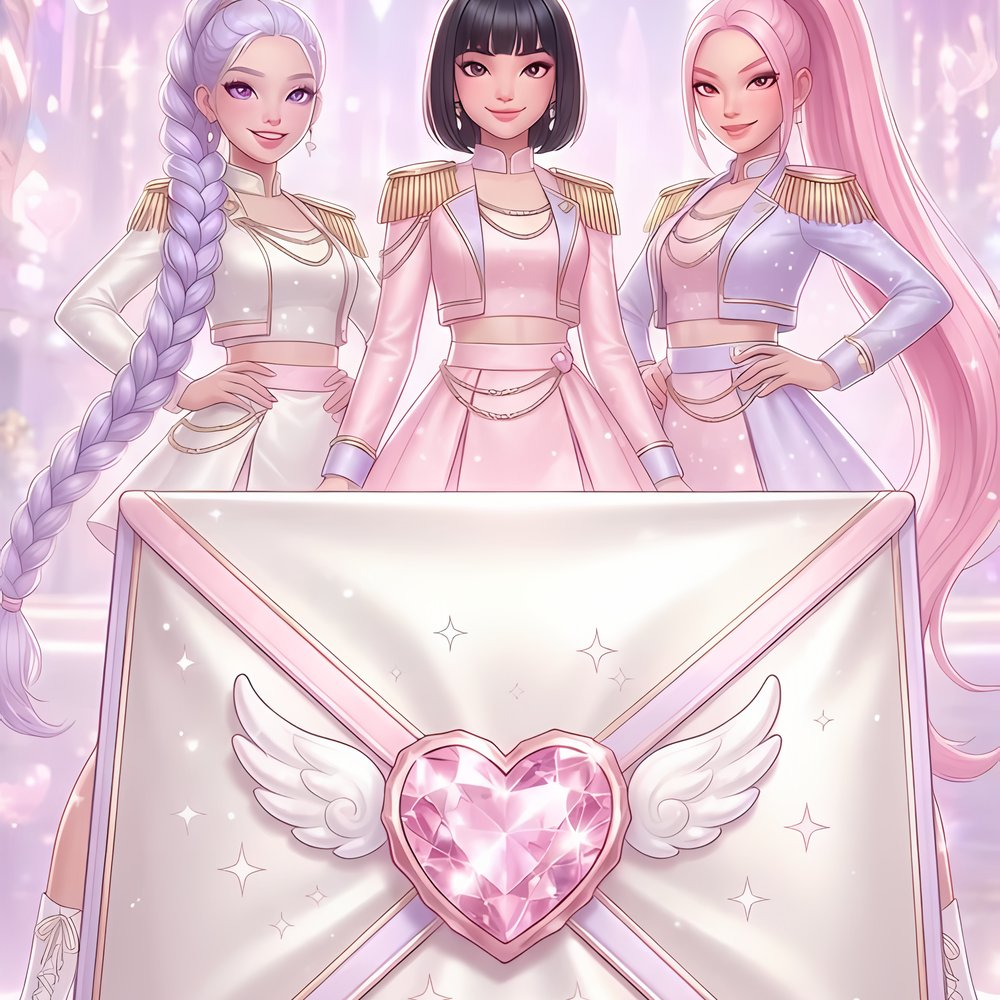
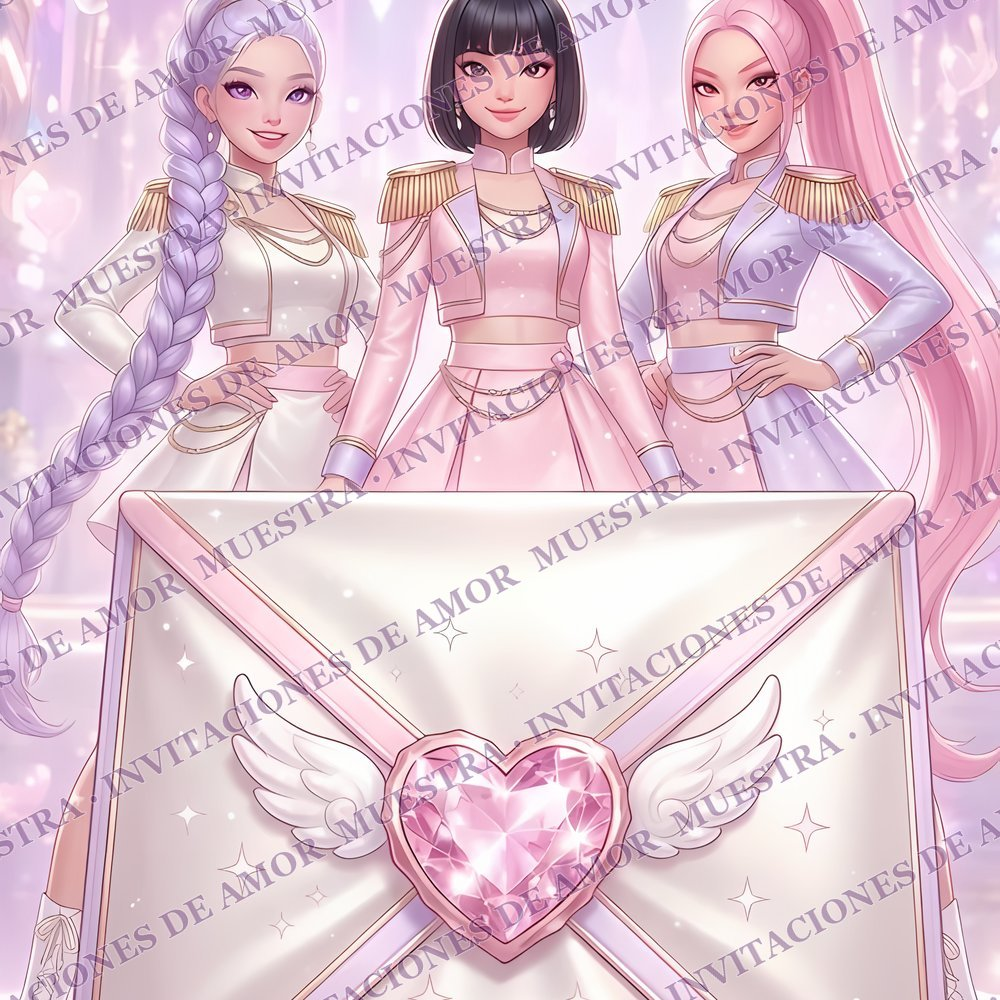
Julieth v1: marca de agua desde el sobre y vista previa; todos los botones (mapas y confirmar) bloqueados hasta el pago

diff --git a/borradores/bautizo-cumple-julieth-v1-b680a8/index.html b/borradores/bautizo-cumple-julieth-v1-b680a8/index.html
@@ -12,7 +12,7 @@
 <meta property="og:title" content="Mi Bautizo y mis 3 añitos · Julieth">
 <meta property="og:description" content="Estás invitado a mi bautizo y a mi cumple de 3 añitos 💖 Toca el sobre para abrir tu invitación ✨">
 <meta property="og:url" content="https://eleganciadeamor.com/borradores/bautizo-cumple-julieth-v1-b680a8/">
-<meta property="og:image" content="https://eleganciadeamor.com/borradores/bautizo-cumple-julieth-v1-b680a8/recursos/vista-previa.jpg?v=1">
+<meta property="og:image" content="https://eleganciadeamor.com/borradores/bautizo-cumple-julieth-v1-b680a8/recursos/vista-previa.jpg?v=2">
 <meta property="og:image:type" content="image/jpeg">
 <meta property="og:image:width" content="1000">
 <meta property="og:image:height" content="1000">
@@ -97,7 +97,8 @@ const CONFIG = {
 
   credito: { texto: "Página hecha con amor por", marca: "Invitaciones de Amor", boton: "Ver nuestros trabajos", enlace: "https://eleganciadeamor.com/#nuestros-trabajos" },
 
-  muestra: { activa: true, texto: "MUESTRA · INVITACIONES DE AMOR", aviso: "Se activa en la versión final ✨" },
+  muestra: { activa: true,   // true = vista previa: marca de agua + botones bloqueados. Solo poner false cuando PAGUE.
+              texto: "MUESTRA · INVITACIONES DE AMOR", aviso: "Se activa en la versión final ✨" },
 
   imagenes: {
     portada: "recursos/portada.webp?v=1",       // Julieth idol con las Guerreras K-pop (Gemini, desde su foto)
@@ -282,10 +283,10 @@ body.abierto #musica-boton { display: grid; }
 @keyframes baila { 0%,100% { transform: rotate(-10deg) translateY(0); } 50% { transform: rotate(10deg) translateY(-3px); } }
 
 /* ---------- vista previa (muestra) ---------- */
-#marca-agua { position: fixed; inset: 0; z-index: 101; pointer-events: none; background: var(--marca) 0 0 / 260px 200px repeat; }
+#marca-agua { position: fixed; inset: 0; z-index: 250; pointer-events: none; background: var(--marca) 0 0 / 260px 200px repeat; }
 body.muestra { -webkit-user-select: none; user-select: none; -webkit-touch-callout: none; }
 body.muestra img, body.muestra video { pointer-events: none; -webkit-user-drag: none; }
-#aviso { position: fixed; left: 50%; bottom: 88px; z-index: 203; translate: -50% 0; padding: 10px 18px; border-radius: 99px; background: rgba(120,70,170,.94); color: #fff; font: 700 15px/1.2 var(--cuerpo); white-space: nowrap; opacity: 0; transform: translateY(10px); transition: opacity .3s, transform .3s; pointer-events: none; }
+#aviso { position: fixed; left: 50%; bottom: 88px; z-index: 260; translate: -50% 0; padding: 10px 18px; border-radius: 99px; background: rgba(120,70,170,.94); color: #fff; font: 700 15px/1.2 var(--cuerpo); white-space: nowrap; opacity: 0; transform: translateY(10px); transition: opacity .3s, transform .3s; pointer-events: none; }
 #aviso.ver { opacity: 1; transform: none; }
 @media print { body.muestra > * { display: none !important; } }
 @media (prefers-reduced-motion: reduce) { *, *::before, *::after { animation-duration: .01s !important; animation-iteration-count: 1 !important; transition-duration: .01s !important; } }
@@ -399,6 +400,7 @@ body.muestra img, body.muestra video { pointer-events: none; -webkit-user-drag: 
 <script>
 (function () {
   const C = CONFIG, I = C.imagenes, $ = id => document.getElementById(id);
+  const BLOQUEADA = !!C.muestra.activa;   // REGLA: hasta que pague, ningún botón (mapas, WhatsApp) funciona
   const url = s => 'url("' + s + '")';
   const txt = (id, s) => { const e = $(id); if (e) e.textContent = s; };
   const img = (id, s) => { const e = $(id); if (!e) return; if (s) e.src = s; else e.remove(); };
@@ -450,7 +452,7 @@ body.muestra img, body.muestra video { pointer-events: none; -webkit-user-drag: 
       $(pre + '-datos').appendChild(d);
     });
     const b = $(pre + '-mapa'); b.textContent = '📍 ' + E.boton;
-    if (E.enlace) b.href = E.enlace; else b.addEventListener('click', aviso);
+    if (E.enlace && !BLOQUEADA) b.href = E.enlace; else { b.removeAttribute('href'); b.addEventListener('click', aviso); }
   }
   evento(C.bautizo, 'ba', I.iconoIglesia, I.bautizo);
   evento(C.fiesta, 'fi', I.iconoTorta);
@@ -460,7 +462,7 @@ body.muestra img, body.muestra video { pointer-events: none; -webkit-user-drag: 
   const co = C.confirmacion;
   img('co-icono', I.iconoSobre); txt('co-titulo', co.titulo); txt('co-texto', co.texto);
   const cb = $('co-boton'); cb.textContent = '💌 ' + co.boton;
-  if (co.whatsapp) cb.href = `https://wa.me/${co.whatsapp}?text=${encodeURIComponent(co.mensaje)}`; else cb.addEventListener('click', aviso);
+  if (co.whatsapp && !BLOQUEADA) cb.href = `https://wa.me/${co.whatsapp}?text=${encodeURIComponent(co.mensaje)}`; else { cb.removeAttribute('href'); cb.addEventListener('click', aviso); }
 
   $('de-escena').style.backgroundImage = url(I.cierre);
   txt('de-titulo', C.despedida.titulo); txt('de-frase', C.despedida.frase);
